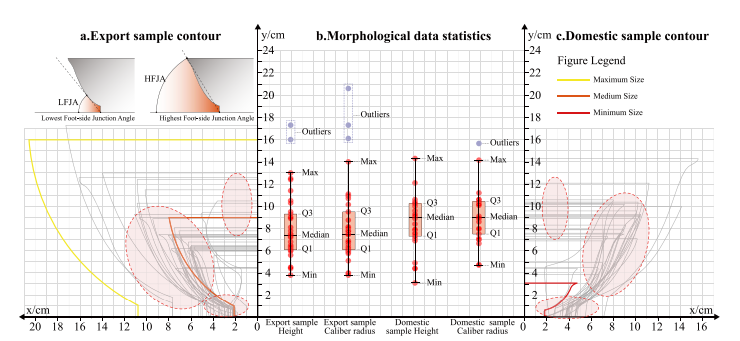
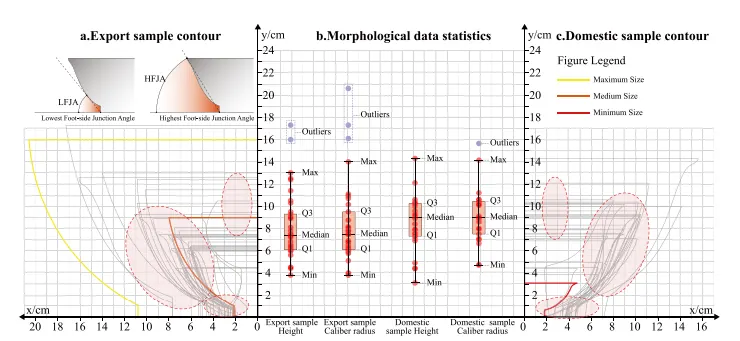
Improve WeChat loading and image performance

diff --git a/style.css b/style.css
@@ -27,12 +27,12 @@ a { color: inherit; }
 .nav-link:active, .action-link:active, .stat-button:active, .drawer-close:active, .stats-close:active { transform: scale(.97); transition-duration: .1s; }
 
 main { max-width: var(--max); margin: auto; padding-left: var(--gutter); padding-right: var(--gutter); }
-.profile-shell { position: sticky; top: 0; z-index: 25; display: grid; grid-template-columns: 78px minmax(220px, 1fr) auto; min-height: 0; margin: 0 calc(-1 * var(--gutter)) 16px; padding: 14px var(--gutter); gap: 18px; align-items: center; border-radius: 0; background: rgba(255,255,255,.93); box-shadow: 0 8px 28px rgba(0,0,0,.07); backdrop-filter: blur(22px) saturate(170%); }
-.profile-photo { width: 72px; aspect-ratio: 4/5; min-height: 0; display: grid; place-items: center; border-radius: 12px; background: linear-gradient(145deg, #e7e7e1, #cfcfc7); overflow: hidden; color: #808079; font-size: 10px; letter-spacing: .15em; box-shadow: 0 5px 16px rgba(0,0,0,.09); }
+.profile-shell { position: sticky; top: 0; z-index: 25; display: grid; grid-template-columns: 60px minmax(220px, 1fr) auto; min-height: 0; margin: 0 calc(-1 * var(--gutter)) 12px; padding: 9px var(--gutter); gap: 14px; align-items: center; border-radius: 0; background: rgba(255,255,255,.93); box-shadow: 0 8px 28px rgba(0,0,0,.07); backdrop-filter: blur(22px) saturate(170%); }
+.profile-photo { width: 56px; aspect-ratio: 4/5; min-height: 0; display: grid; place-items: center; border-radius: 0; background: linear-gradient(145deg, #e7e7e1, #cfcfc7); overflow: hidden; color: #808079; font-size: 10px; letter-spacing: .15em; box-shadow: none; }
 .profile-photo img { width: 100%; height: 100%; object-fit: cover; }
 .eyebrow { margin: 0 0 18px; color: var(--muted); font-size: 11px; text-transform: uppercase; letter-spacing: .15em; }
-.profile-intro h1 { margin: 0; font-size: clamp(30px, 3.8vw, 48px); line-height: .95; letter-spacing: -.055em; font-weight: 540; }
-.profile-role { margin: 8px 0 0; color: var(--muted); font-size: clamp(13px, 1.2vw, 16px); }
+.profile-intro h1 { margin: 0; font-size: clamp(25px, 3vw, 36px); line-height: .96; letter-spacing: -.045em; font-weight: 560; }
+.profile-role { margin: 5px 0 0; color: var(--muted); font-size: clamp(11px, 1vw, 14px); }
 .profile-bio { max-width: 620px; margin: 22px 0 0; color: var(--muted); line-height: 1.8; }
 .profile-actions { display: flex; flex-direction: row; gap: 8px; align-self: center; }
 .action-link { display: inline-flex; justify-content: center; min-width: 112px; padding: 12px 17px; border: 0; border-radius: 14px; background: var(--soft); text-decoration: none; font-size: 13px; transition: color .18s ease, background-color .18s ease, transform .1s ease-out; }
@@ -40,7 +40,7 @@ main { max-width: var(--max); margin: auto; padding-left: var(--gutter); padding
 
 .page { padding: clamp(28px, 4vw, 48px) clamp(20px, 3.5vw, 52px); border-radius: 24px; background: var(--surface); box-shadow: var(--shadow); }
 .section-heading { display: grid; grid-template-columns: 1fr minmax(260px, 520px); gap: 28px; align-items: end; margin-bottom: clamp(24px, 3.5vw, 40px); }
-.section-heading h2 { margin: 0; font-size: clamp(36px, 5vw, 64px); line-height: .94; letter-spacing: -.055em; font-weight: 500; }
+.section-heading h2 { margin: 0; font-size: clamp(30px, 4vw, 48px); line-height: .96; letter-spacing: -.045em; font-weight: 520; }
 .section-heading > p { margin: 0; color: var(--muted); line-height: 1.8; }
 .stats-grid { display: grid; grid-template-columns: repeat(4, 1fr); gap: 10px; }
 .research-stats { grid-template-columns: repeat(3, 1fr); margin-bottom: 28px; }
@@ -65,10 +65,11 @@ main { max-width: var(--max); margin: auto; padding-left: var(--gutter); padding
 .card-overlay::before { content: "↗  点击查看详情"; display: block; margin-bottom: 8px; font-size: 10px; letter-spacing: .08em; opacity: .76; }
 .card-open { width: 100%; border: 0; padding: 0; background: transparent; text-align: left; cursor: pointer; transition: transform .1s ease-out; }
 .card-open:active { transform: scale(.99); }
-.card-body { display: block; padding: 18px 0 34px; }
-.card-kicker { display: flex; justify-content: space-between; align-items: center; gap: 16px; min-height: 42px; margin-bottom: 12px; color: var(--muted); font-size: 11px; text-transform: uppercase; letter-spacing: .08em; }
-.card-rankings { display: flex; flex-wrap: wrap; justify-content: flex-end; gap: 6px; }
-.card-rankings span { flex: 0 0 auto; padding: 7px 9px; border-radius: 9px; background: #fff; color: var(--ink); box-shadow: 0 1px 4px rgba(0,0,0,.08); font-size: 10px; letter-spacing: .04em; }
+.card-body { display: block; padding: 14px 0 20px; }
+.card-kicker { display: flex; justify-content: space-between; align-items: center; gap: 8px; min-height: 0; margin-bottom: 8px; color: var(--muted); font-size: 10px; text-transform: uppercase; letter-spacing: .06em; }
+.card-kicker > span:first-child { min-width: 0; overflow: hidden; white-space: nowrap; text-overflow: ellipsis; }
+.card-rankings { display: flex; flex: 0 0 auto; flex-wrap: nowrap; justify-content: flex-end; gap: 4px; white-space: nowrap; }
+.card-rankings span { flex: 0 0 auto; padding: 5px 7px; border-radius: 8px; background: #fff; color: var(--ink); box-shadow: 0 1px 4px rgba(0,0,0,.08); font-size: 9px; letter-spacing: .02em; }
 .card-body h3 { margin: 0; font-size: clamp(19px, 2vw, 29px); line-height: 1.22; letter-spacing: -.025em; font-weight: 520; }
 .card-body p { margin: 12px 0 0; color: var(--muted); line-height: 1.7; font-size: 13px; }
 .empty-state { grid-column: 1/-1; min-height: 320px; padding: clamp(32px, 6vw, 80px); display: grid; place-items: center; text-align: center; border: 1px dashed #bdbdb6; background: var(--soft); }
@@ -107,7 +108,7 @@ body.stats-open .stats-backdrop { opacity: 1; }
 body.stats-open { overflow: hidden; }
 
 @media (max-width: 980px) {
-  .profile-shell { grid-template-columns: 72px 1fr auto; }
+  .profile-shell { grid-template-columns: 60px 1fr auto; }
   .stats-grid { grid-template-columns: repeat(2, 1fr); }
   .research-stats { grid-template-columns: repeat(3, 1fr); }
   .work-card, .work-card:nth-child(5n + 1), .work-card:nth-child(5n + 2) { grid-column: span 6; padding-top: 0; }
@@ -116,15 +117,15 @@ body.stats-open { overflow: hidden; }
 @media (max-width: 700px) {
   .primary-nav { left: 10px; right: 10px; bottom: 10px; width: auto; padding: 7px 8px max(7px, env(safe-area-inset-bottom)); justify-content: space-around; gap: 4px; border-radius: 20px; transform: none; }
   .nav-link { flex: 0 0 auto; font-size: 12px; }
-  .profile-shell { grid-template-columns: 60px minmax(0, 1fr); min-height: 0; padding: 10px 14px; gap: 10px 12px; align-items: center; border-radius: 0; }
-  .profile-photo { grid-row: span 2; width: 58px; min-height: 0; }
-  .profile-intro h1 { font-size: clamp(28px, 9vw, 38px); }
-  .profile-role { margin-top: 5px; font-size: 12px; }
+  .profile-shell { grid-template-columns: 48px minmax(0, 1fr) auto; min-height: 0; padding: 7px 12px; gap: 9px; align-items: center; border-radius: 0; }
+  .profile-photo { grid-row: auto; width: 46px; min-height: 0; }
+  .profile-intro h1 { font-size: clamp(22px, 6.8vw, 29px); }
+  .profile-role { margin-top: 3px; font-size: 10px; white-space: nowrap; }
   .profile-bio { display: none; }
-  .profile-actions { grid-column: 2; align-self: start; flex-wrap: wrap; }
-  .action-link { min-width: 0; padding: 7px 10px; border-radius: 10px; font-size: 11px; }
+  .profile-actions { grid-column: 3; align-self: center; flex-wrap: nowrap; }
+  .action-link { min-width: 0; padding: 6px 8px; border-radius: 9px; font-size: 10px; white-space: nowrap; }
   .section-heading { grid-template-columns: 1fr; gap: 14px; }
-  .section-heading h2 { font-size: clamp(34px, 11vw, 48px); }
+  .section-heading h2 { font-size: clamp(28px, 8vw, 36px); }
   .section-heading > p { font-size: 14px; }
   .page { padding: 28px 16px; border-radius: 20px; }
   .research-stats { grid-template-columns: repeat(3, minmax(0, 1fr)); gap: 6px; }

diff --git a/script.js b/script.js
@@ -1,8 +1,9 @@
+const ASSET_VERSION = "20261031-3";
 const DATA_PATHS = {
-  profile: "data/profile.json",
-  research: "data/research.json",
-  design: "data/design.json",
-  awards: "data/awards.json"
+  profile: `data/profile.json?v=${ASSET_VERSION}`,
+  research: `data/research.json?v=${ASSET_VERSION}`,
+  design: `data/design.json?v=${ASSET_VERSION}`,
+  awards: `data/awards.json?v=${ASSET_VERSION}`
 };
 
 const state = { profile: null, research: null, design: null, awards: null, activePage: "research", lastFocus: null, lastStatFocus: null };
@@ -11,13 +12,12 @@ let statsCloseTimer;
 const $ = (selector, root = document) => root.querySelector(selector);
 const $$ = (selector, root = document) => [...root.querySelectorAll(selector)];
 const valueOr = (value, fallback = "待补充") => value && String(value).trim() ? value : fallback;
+const versionedAsset = path => path ? `${path}${path.includes("?") ? "&" : "?"}v=${ASSET_VERSION}` : path;
 
 async function loadData() {
   try {
     const entries = await Promise.all(Object.entries(DATA_PATHS).map(async ([key, path]) => {
-      const response = await fetch(path);
-      if (!response.ok) throw new Error(`${path}: HTTP ${response.status}`);
-      return [key, await response.json()];
+      return [key, await fetchJson(path)];
     }));
     Object.assign(state, Object.fromEntries(entries));
     renderAll();
@@ -26,6 +26,28 @@ async function loadData() {
     showToast("数据加载失败，请通过本地 HTTP 服务器打开网站。");
     renderEmpty($("#research-grid"), "数据暂时无法读取", "请检查 JSON 文件路径，或使用本地静态服务器预览。");
   }
+}
+
+async function fetchJson(path) {
+  if (window.fetch) {
+    try {
+      const response = await fetch(path, { cache: "no-store" });
+      if (response.ok) return response.json();
+    } catch (error) {
+      console.warn(`Fetch 读取失败，尝试兼容模式：${path}`, error);
+    }
+  }
+  return new Promise((resolve, reject) => {
+    const request = new XMLHttpRequest();
+    request.open("GET", `${path}&t=${Date.now()}`, true);
+    request.onload = () => {
+      if (request.status < 200 || request.status >= 300) return reject(new Error(`${path}: HTTP ${request.status}`));
+      try { resolve(JSON.parse(request.responseText)); }
+      catch (error) { reject(error); }
+    };
+    request.onerror = () => reject(new Error(`${path}: 网络请求失败`));
+    request.send();
+  });
 }
 
 function renderAll() {
@@ -44,7 +66,7 @@ function renderProfile(profile) {
   bio.hidden = !profile.bio;
   const photo = $("#profile-photo");
   photo.innerHTML = profile.photo
-    ? `<img src="${escapeHtml(profile.photo)}" alt="${escapeHtml(profile.name || "个人照片")}">`
+    ? `<img src="${escapeHtml(versionedAsset(profile.photo))}" alt="${escapeHtml(profile.name || "个人照片")}" decoding="async">`
     : "<span>PHOTO</span>";
   photo.setAttribute("aria-hidden", profile.photo ? "false" : "true");
 
@@ -60,7 +82,7 @@ function renderResearch() {
   const papers = state.research.papers || [];
   const projects = state.research.projects || [];
   renderStats($("#research-stats"), [
-    [papers.filter(item => ["published", "accepted"].includes(item.status)).length, "已发表及已录用论文", "published"],
+    [papers.filter(item => ["published", "accepted"].includes(item.status)).length, "发表/已录用论文", "published"],
     [papers.filter(item => item.status === "under-review").length, "正在投稿论文", "under-review"],
     [projects.length, "参与科研课题", "projects"]
   ], true);
@@ -74,7 +96,7 @@ function renderResearch() {
 function renderPaperCard(paper) {
   const jcr = valueOr(paper.rankings?.jcr).replace(/\s+/g, "-");
   const cas = valueOr(paper.rankings?.cas).replace(/^中科院/, "中科院-");
-  const media = paper.coverImage ? `<img src="${escapeHtml(paper.coverImage)}" alt="${escapeHtml(paper.coverAlt || paper.title)}" loading="lazy">` : "";
+  const media = paper.coverImage ? `<img src="${escapeHtml(versionedAsset(paper.coverImage))}" alt="${escapeHtml(paper.coverAlt || paper.title)}" loading="lazy" decoding="async">` : "";
   return `<article class="work-card" data-id="${escapeHtml(paper.id)}">
     <div class="card-kicker"><span>${escapeHtml(valueOr(paper.journal))}</span><span class="card-rankings"><span>${escapeHtml(jcr)}</span><span>${escapeHtml(cas)}</span></span></div>
     <button class="card-open" type="button" data-id="${escapeHtml(paper.id)}" aria-label="查看论文：${escapeHtml(paper.title)}">
@@ -111,7 +133,7 @@ function openStats(type) {
   const papers = state.research.papers || [];
   const projects = state.research.projects || [];
   const definitions = {
-    published: { title: "已发表及已录用论文", items: papers.filter(item => ["published", "accepted"].includes(item.status)), kind: "paper", empty: "暂无已发表或已录用论文。" },
+    published: { title: "发表/已录用论文", items: papers.filter(item => ["published", "accepted"].includes(item.status)), kind: "paper", empty: "暂无已发表或已录用论文。" },
     "under-review": { title: "正在投稿论文", items: papers.filter(item => item.status === "under-review"), kind: "paper", empty: "暂无正在投稿论文。" },
     projects: { title: "参与科研课题", items: projects, kind: "project", empty: "暂无科研课题。" }
   };
@@ -156,11 +178,11 @@ function openPaper(id) {
   clearTimeout(drawerCloseTimer);
   state.lastFocus = document.activeElement;
   const gallery = [
-    ...(paper.detailImage || paper.coverImage ? [{ src: paper.detailImage || paper.coverImage, alt: paper.coverAlt || paper.title }] : []),
+    ...(paper.detailImage || paper.coverImage ? [{ src: paper.detailImage || paper.coverImage, alt: paper.detailAlt || paper.coverAlt || paper.title }] : []),
     ...(paper.detailImages || [])
   ];
   $("#detail-content").innerHTML = `<p class="eyebrow">${escapeHtml(valueOr(paper.journal))}</p><h2 id="detail-title">${escapeHtml(valueOr(paper.title))}</h2>
-    <div class="detail-gallery">${gallery.map(image => `<img class="detail-image" src="${escapeHtml(image.src)}" alt="${escapeHtml(image.alt || paper.title)}">`).join("")}</div>
+    <div class="detail-gallery">${gallery.map(image => `<img class="detail-image" src="${escapeHtml(versionedAsset(image.src))}" alt="${escapeHtml(image.alt || paper.title)}" decoding="async">`).join("")}</div>
     <div class="detail-list">${detailRow("发表日期", paper.publicationDate)}
       ${detailRow("个人贡献", paper.contributionDetail || paper.contribution)}${detailRow("ISSN", paper.issn)}
       ${detailLinkRow("DOI", paper.doi, paper.articleUrl)}${detailLinkRow("论文原文", "访问出版社开放获取页面 ↗", paper.articleUrl)}

diff --git a/index.html b/index.html
@@ -3,10 +3,13 @@
 <head>
   <meta charset="UTF-8">
   <meta name="viewport" content="width=device-width, initial-scale=1.0">
+  <meta http-equiv="Cache-Control" content="no-cache, no-store, must-revalidate">
+  <meta http-equiv="Pragma" content="no-cache">
+  <meta http-equiv="Expires" content="0">
   <meta name="description" content="个人学术成果、设计实践与荣誉展示主页。">
   <title>个人学术主页｜Academic Portfolio</title>
-  <link rel="stylesheet" href="style.css">
-  <script src="script.js" defer></script>
+  <link rel="stylesheet" href="style.css?v=20261031-3">
+  <script src="script.js?v=20261031-3" defer></script>
 </head>
 <body>
   <a class="skip-link" href="#main-content">跳到主要内容</a>

diff --git a/AGENTS.md b/AGENTS.md
@@ -31,7 +31,8 @@
 ## 开发与质量
 
 - 页面必须支持现代桌面端和手机端，保持键盘可访问、合理对比度和清晰焦点状态。
-- 论文分区切换、导航、详情面板和外部链接必须可用；移动端详情采用全屏布局。
+- 论文卡片固定展示期刊名、JCR 与中科院分区；导航、详情面板和外部链接必须可用。
+- 论文详情从屏幕右侧展开并占视口宽度的 80%，使用左侧箭头收起；移动端保持相同空间逻辑，避免依赖浏览器返回手势。
 - JSON 路径使用相对路径，兼容 GitHub Pages 根目录静态部署。
 - 修改后至少检查：JSON 可解析、资源路径、页面加载、三页切换、响应式布局、控制台错误与 Git 状态。
 - 不删除用户已有内容；若必须重构，应保留其信息含义，并在变更记录中说明。

diff --git a/docs/changelog.md b/docs/changelog.md
@@ -1,5 +1,13 @@
 # 更新记录
 
+## 2026-10-31 — 微信缓存兼容与图片轻量化
+
+- 为 CSS、JavaScript、JSON 和展示图片增加统一版本标识，并让 JSON 请求绕过旧缓存，降低微信内置浏览器混用旧资源的风险。
+- 进一步压缩顶部个人信息栏：缩小姓名和栏目标题，电话固定在右侧，个人照片改为直角。
+- 论文卡片的期刊名保持单行，JCR 与中科院分区改为横排，并收紧卡片留白。
+- 科研统计标签改为“发表/已录用论文”。
+- 将 PAPER-001 的三张详情图真正合并为单张 WebP；同步压缩个人照片和论文封面。
+
 ## 2026-10-31 — 固定资料栏与科研交互优化
 
 - 移除顶部品牌页头，将个人资料栏改为无圆角的顶部固定信息栏。

diff --git a/docs/data-schema.md b/docs/data-schema.md
@@ -13,7 +13,8 @@
 
 - `papers`：论文数组；`status` 和 `authorRole` 用于自动统计，作者名单使用字符串数组。
 - `rankings`：同一论文的 JCR、中科院、新锐学术分区。
-- `detailImages`：详情页科研图片数组，每项包含 `src` 与可访问性说明 `alt`。
+- `detailImage` / `detailAlt`：详情页主图版路径及可访问性说明；多张相关图片优先预先合并，减少网页请求。
+- `detailImages`：需要独立展示时使用的补充图片数组，每项包含 `src` 与可访问性说明 `alt`。
 - `projects`：科研课题数组，用于参与课题统计。
 - `articleUrl`、`pdfUrl`：出版社原文与站内/公开 PDF 入口；没有 PDF 时保持空字符串。
 
